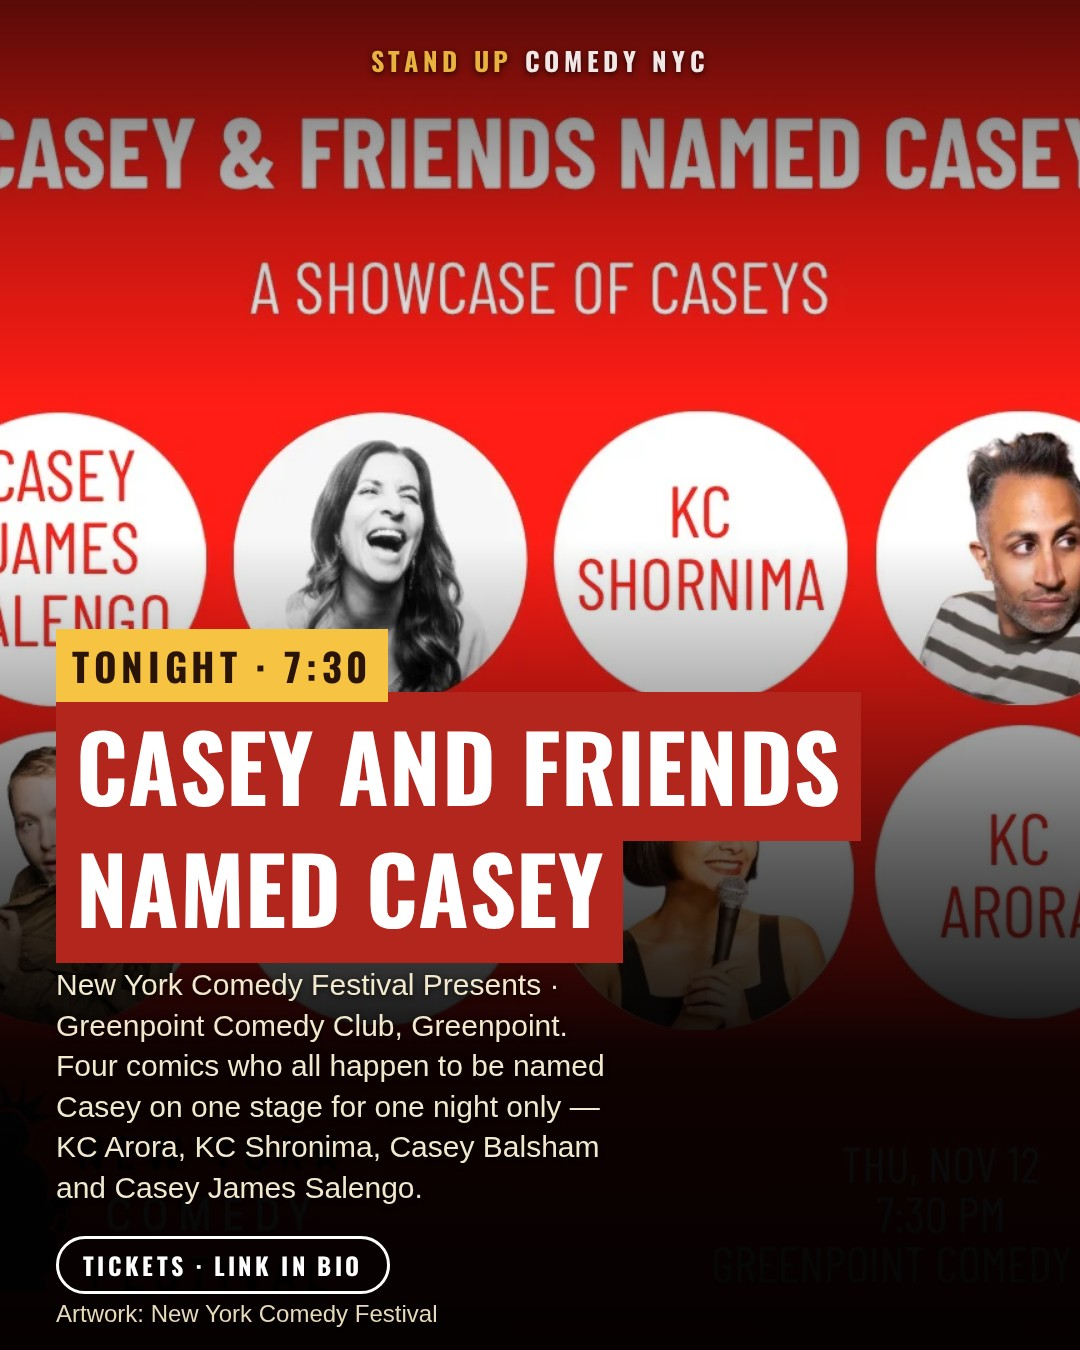
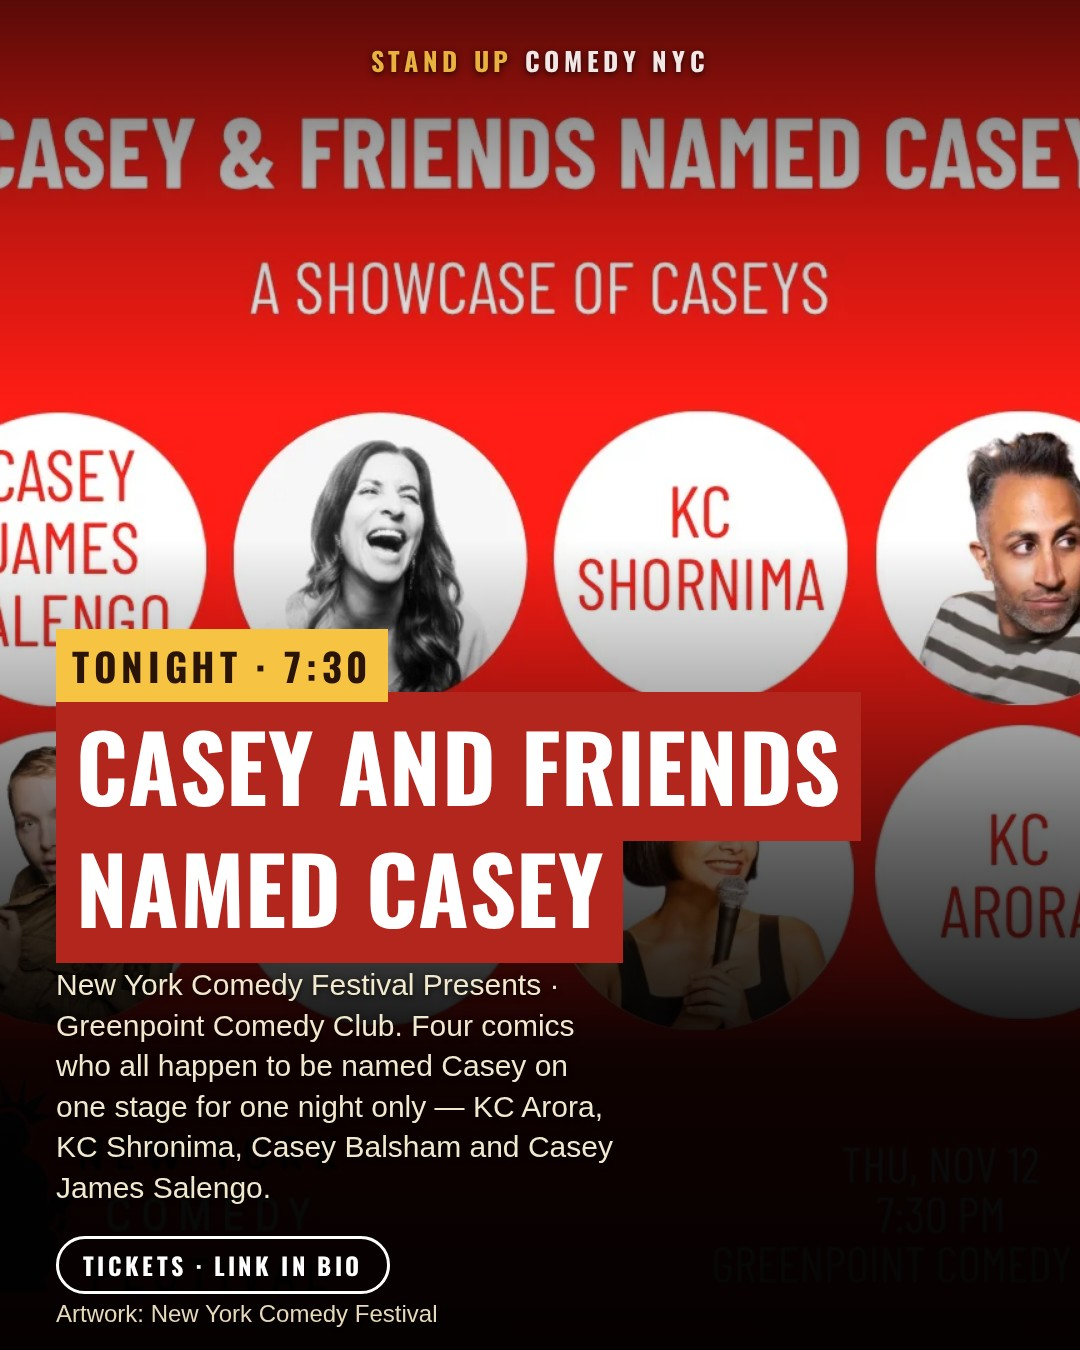
IG story for tonight

Changed region(s): [[0.0611, 0.7467, 0.5806, 0.9022]]

diff --git a/scripts/ig-card.js b/scripts/ig-card.js
@@ -57,8 +57,12 @@ const posters = JSON.parse(fs.readFileSync(path.join(root, 'POSTER-SOURCES.json'
 const reusable = new Set(posters.filter((p) => p.reuse === 'granted').map((p) => p.src));
 const venuesByName = new Map(JSON.parse(fs.readFileSync(path.join(web, 'data', 'venues.json'), 'utf8')).map((v) => [v.name, v]));
 const hoodOf = (p) => venuesByName.get(p.venue)?.neighborhood || p.neighborhood || '';
+// The venue as printed: a parenthetical that only restates the neighborhood is dropped,
+// and the neighborhood is dropped when the venue name already carries it.
+const venueOf = (p) => venueLabel(p.venue, hoodOf(p));
 const { soldOut, selectTonight } = require('./tonight-set.js');
 const { firstSentence } = require('./blurb.js');
+const { venueLabel, hoodLabel, venueLine } = require('./venue.js');
 // Full-bleed image for a pick: its own poster, or (when there's no artwork) a credited photo of the venue itself.
 const heroImage = (p) => (p.poster && p.poster.src) ? p.poster : (venuesByName.get(p.venue)?.photo || null);
 
@@ -118,7 +122,7 @@ body:before{content:'';position:absolute;inset:0;background:radial-gradient(elli
 const titleSize = (t) => { const byLen = t.length > 60 ? 88 : t.length > 40 ? 104 : t.length > 24 ? 128 : t.length > 14 ? 150 : 176; const longest = Math.max(...t.split(/\s+/).map((w) => w.length)); const byWord = Math.floor(800 / (0.56 * longest)); return Math.min(byLen, byWord); };
 const rowSize = (n, maxLen) => n <= 2 ? (maxLen > 30 ? 84 : 110) : n <= 3 ? (maxLen > 30 ? 72 : 96) : n <= 4 ? (maxLen > 30 ? 58 : 76) : (maxLen > 30 ? 48 : 60);
 const sub = (p) => firstSentence(p.description, 180, 182);
-const dek = (p) => { const b = sub(p) || p.price_label; const v = String(p.venue).replace(/^the\s+/i, ''); return new RegExp(v.replace(/[.*+?^${}()|[\]\\]/g, '\\$&'), 'i').test(b) ? `${hoodOf(p)}. ${b}` : `${p.venue}, ${hoodOf(p)}. ${b}`; };
+const dek = (p) => { const b = sub(p) || p.price_label; const v = String(p.venue).replace(/^the\s+/i, ''); const named = new RegExp(v.replace(/[.*+?^${}()|[\]\\]/g, '\\$&'), 'i').test(b); const hood = hoodLabel(venueOf(p), hoodOf(p)); const where = named ? (hood || venueOf(p)) : venueLine(p.venue, hoodOf(p), ', '); return `${where}. ${b}`; };
 
 function pickCard(p) {
   const art = p.poster && reusable.has(p.poster.src) ? `<div class="art"><img src="${dataUrl(path.join(web, p.poster.src.replace(/^\//, '')), 'image/' + p.poster.src.split('.').pop().replace('jpg', 'jpeg'))}"></div>` : '';
@@ -127,7 +131,7 @@ function pickCard(p) {
   return `${base}<div class="wrap"><div class="paper" style="--ts:${titleSize(p.title)}px">${stamp}<div class="brand">Stand Up <span>Comedy NYC</span></div>
 <div class="kicker">${tonight ? 'Tonight' : esc(shortDate(p.date))} · ${esc(p.time_label.split(' · ')[0])}</div>
 <h1 class="title">${esc(p.title)}</h1>${art}
-<p class="where">${esc(p.venue)}<br>${esc(hoodOf(p))}<small>${/see (the )?(ticket|listing|show) page|see listing/i.test(p.price_label || '') ? esc(sub(p) || '') : esc(p.price_label) + (sub(p) ? ' — ' + esc(sub(p)) : '')}</small></p><div class="big-time">${esc(p.time_label.split(' · ')[0])}</div></div>
+<p class="where">${esc(venueOf(p))}${hoodLabel(venueOf(p), hoodOf(p)) ? `<br>${esc(hoodLabel(venueOf(p), hoodOf(p)))}` : ''}<small>${/see (the )?(ticket|listing|show) page|see listing/i.test(p.price_label || '') ? esc(sub(p) || '') : esc(p.price_label) + (sub(p) ? ' — ' + esc(sub(p)) : '')}</small></p><div class="big-time">${esc(p.time_label.split(' · ')[0])}</div></div>
 <div class="foot"><span class="url">standupcomedynyc.com</span><span class="note">Link in bio</span></div></div>`;
 }
 
@@ -184,16 +188,20 @@ function storyCard(day, list) {
   const img = hero ? heroImage(hero) : null;
   const bg = img ? dataUrl(path.join(web, img.src.replace(/^\//, '')), 'image/' + img.src.split('.').pop().replace('jpg', 'jpeg')) : '';
   const weekday = new Intl.DateTimeFormat('en-US', { timeZone: 'America/New_York', weekday: 'long' }).format(new Date(day + 'T12:00:00-04:00'));
-  const rows = list.slice(0, 5).map((p) => `<div class="srow"><b>${esc(clock(p))}</b><div><strong>${esc(p.title)}</strong><span>${esc(p.venue)} · ${esc(hoodOf(p))}${p.demand === 'going_fast' ? ' · going fast' : ''}${p.sponsored ? ' · paid listing' : ''}</span></div></div>`).join('');
+  const rows = list.slice(0, 5).map((p) => `<div class="srow"><b>${esc(clock(p))}</b><div><strong>${esc(p.title)}</strong><span>${esc(venueLine(p.venue, hoodOf(p)))}${p.demand === 'going_fast' ? ' · going fast' : ''}${p.sponsored ? ' · paid listing' : ''}</span></div></div>`).join('');
+  // The frame holds five rows. On a bigger night it must say so, or the reader thinks
+  // five shows is the whole list (seen 2026-11-08 and 2026-11-12).
+  const more = list.length > 5 ? `<div class="smore">+ ${list.length - 5} more tonight</div>` : '';
   return `${base}<style>html,body{height:1920px}.photo{background-position:center 25%}.photo:after{background:linear-gradient(180deg,#000000a6 0%,#00000040 12%,#0000 24%,#0000 40%,#000000d0 55%,#000000f4 68%,#000000fa 100%)}
 .sw{position:relative;height:100%;display:flex;flex-direction:column;padding:170px 64px 210px;color:#fff}
 .sw .lock{align-self:center}
 .shead{margin-top:auto;font:700 108px/1 Oswald;text-transform:uppercase;letter-spacing:.01em}.shead i{font-style:normal;display:inline-block;background:#f6c343;color:#2a1408;padding:10px 26px 14px}.shead small{display:block;font:500 40px/1.2 Oswald;letter-spacing:.2em;color:#f6c343;margin:14px 0 26px;text-transform:uppercase}
 .srow{display:flex;gap:26px;align-items:flex-start;padding:20px 0;border-top:2px solid #ffffff33}.srow b{font:700 54px/1 Oswald;color:#f6c343;min-width:150px}.srow strong{display:block;font:700 54px/1 Oswald;text-transform:uppercase;letter-spacing:.01em}.srow span{display:block;font:30px/1.3 Arial,sans-serif;color:#e6d8b8;margin-top:8px}
+.smore{margin-top:26px;font:700 36px/1 Oswald;letter-spacing:.1em;text-transform:uppercase;color:#f6c343;text-shadow:0 2px 6px #000c}
 .spill{margin-top:34px;align-self:flex-start;border:3px solid #fff;font:700 30px/1 Oswald;letter-spacing:.12em;text-transform:uppercase;padding:18px 28px;border-radius:50px}
 .credit2{bottom:60px;left:64px}</style>
 ${hero ? `<div class="photo" style="background-image:url(${bg})"></div>` : ''}<div class="sw"><div class="lock">Stand Up <span>Comedy NYC</span></div>
-<div class="shead"><i>Tonight</i><small>${esc(new Intl.DateTimeFormat('en-US', { timeZone: 'America/New_York', weekday: 'long', month: 'long', day: 'numeric' }).format(new Date(day + 'T12:00:00-04:00')))}</small></div>${rows}
+<div class="shead"><i>Tonight</i><small>${esc(new Intl.DateTimeFormat('en-US', { timeZone: 'America/New_York', weekday: 'long', month: 'long', day: 'numeric' }).format(new Date(day + 'T12:00:00-04:00')))}</small></div>${rows}${more}
 <div class="spill">Full board + tickets · standupcomedynyc.com/links</div>${img ? `<div class="credit2">${esc(img.credit || '')}</div>` : ''}</div>`;
 }
 function coverCard(label, day, list) {

diff --git a/scripts/venue.js b/scripts/venue.js
@@ -1,0 +1,41 @@
+'use strict';
+// How a venue is printed to a reader.
+//
+// The registry disambiguates sister rooms with a parenthetical: "New York Comedy Club
+// (Upper West Side)", "Talea Beer Co. (Cobble Hill)". Printed next to the neighborhood --
+// which the registry also carries -- that says the same thing twice. On the 9:16 story
+// frame of 2026-11-12 the repeated line was long enough to wrap and collide with the
+// next row, and the same redundancy reached the Instagram caption, which cannot be
+// edited once published.
+//
+// The registry key is never changed. This only affects what a reader sees.
+
+// The venue as printed: drop a trailing parenthetical when it is only restating the
+// neighborhood ("New York Comedy Club (Upper West Side)" -> "New York Comedy Club").
+// A parenthetical that says something else ("Union Hall (Greenpoint)") is kept.
+const venueLabel = (venue, neighborhood) => {
+  const hood = String(neighborhood || '').trim().toLowerCase();
+  return String(venue || '')
+    .replace(/\s*\(([^()]*)\)\s*$/, (all, inner) => (hood && inner.trim().toLowerCase() === hood ? '' : all))
+    .trim();
+};
+
+// The neighborhood as printed: dropped when the venue name already carries it
+// ("Greenpoint Comedy Club" needs no "Greenpoint" after it).
+// Tested against the printed venue label, so a stripped parenthetical does not
+// take the neighborhood down with it.
+const hoodLabel = (venue, neighborhood) => {
+  const hood = String(neighborhood || '').trim();
+  if (!hood) return '';
+  return String(venue || '').toLowerCase().includes(hood.toLowerCase()) ? '' : hood;
+};
+
+// "New York Comedy Club · Upper West Side" -- the venue and its hood, with the
+// separator only when there is something to separate.
+const venueLine = (venue, neighborhood, sep = ' · ') => {
+  const v = venueLabel(venue, neighborhood);
+  const h = hoodLabel(v, neighborhood);
+  return h ? `${v}${sep}${h}` : v;
+};
+
+module.exports = { venueLabel, hoodLabel, venueLine };

diff --git a/scripts/caption.js b/scripts/caption.js
@@ -13,6 +13,7 @@
 // proof-read is the caption that gets published.
 'use strict';
 const { firstSentence } = require('./blurb.js');
+const { venueLabel, hoodLabel } = require('./venue.js');
 
 const LIMIT = 2200;           // Instagram's hard caption limit
 const BLURB_MAX = 240;        // the cap the caption used before
@@ -34,10 +35,15 @@ const credits = (list) => { const c = [...new Set(list.filter((p) => p.poster &&
 const hashtags = '#nyccomedy #nycstandup #brooklyncomedy #standupnyc';
 
 // One block per show: time + title, where it is, then the blurb.
+// The venue line drops a parenthetical that only restates the neighborhood, and drops
+// the neighborhood when the venue name already carries it ("Greenpoint Comedy Club").
 const block = (e, blurb) => {
   const tag = e.demand === 'sold_out' ? ' · sold out' : e.demand === 'going_fast' ? ' · going fast' : '';
   const paid = e.sponsored ? ' · paid listing' : '';
-  return `${e.clock} — ${e.title.toUpperCase()}\n${e.venue}, ${e.neighborhood}${tag}${paid}${blurb ? '\n' + blurb : ''}`;
+  const venue = venueLabel(e.venue, e.neighborhood);
+  const hood = hoodLabel(venue, e.neighborhood);
+  const where = hood ? `${venue}, ${hood}` : venue;
+  return `${e.clock} — ${e.title.toUpperCase()}\n${where}${tag}${paid}${blurb ? '\n' + blurb : ''}`;
 };
 
 const assemble = (head, entries, blurbs, foot) =>

diff --git a/scripts/check.js b/scripts/check.js
@@ -252,6 +252,7 @@ const jsFiles = [
   path.join(root, 'scripts', 'research-plan.js'),
   path.join(root, 'scripts', 'calendar.js'),
   path.join(root, 'scripts', 'blurb.js'),
+  path.join(root, 'scripts', 'venue.js'),
   path.join(root, 'scripts', 'caption.js'),
   path.join(root, 'scripts', 'tonight-set.js'),
   path.join(root, 'scripts', 'ig-card.js'),

diff --git a/candidates/content-calendar.md b/candidates/content-calendar.md
@@ -13,7 +13,7 @@ Six weeks ahead from the board. Regenerated on every build; edit the data, not t
 
 Ranked 46; run 0, reuse 8, skip 38; ~414,000 tokens saved.
 
-## Week 1: Nov 12 to Nov 18 — 41 picks — 22 without artwork · 45 Eventbrite leads not yet reviewed
+## Week 1: Nov 12 to Nov 18 — 42 picks — 22 without artwork · 45 Eventbrite leads not yet reviewed
 
 - Thu Nov 12 6pm — **Shelly Belly Presented by the New York Comedy Festival** at New York Comedy Club (Upper West Side)
 - Thu Nov 12 7:30pm · doors 7:15pm — **New York Comedy Festival Presents: Casey and Friends Named Casey** at Greenpoint Comedy Club
@@ -33,6 +33,7 @@ Ranked 46; run 0, reuse 8, skip 38; ~414,000 tokens saved.
 - Fri Nov 13 10pm · doors 9:30pm — **Neel Ghosh: Pagol** at Union Hall · NO ARTWORK
 - Fri Nov 13 11pm — **After Hours at Flop House** at Flop House Comedy · NO ARTWORK
 - Sat Nov 14 3pm — **The Moth x Comic Relief: Funny Story** at The Town Hall · NO ARTWORK
+- Sat Nov 14 6pm — **Naomi Karavani Headlines** at Bushwick Comedy Club
 - Sat Nov 14 7pm — **Daniel Sloss: Bitter** at Beacon Theatre · NO ARTWORK · heat 60
 - Sat Nov 14 7pm — **SH&T Show hosted by Jordan Klepper** at The Town Hall · NO ARTWORK
 - Sat Nov 14 7:30pm · doors 7pm — **Sureni Does an Hour of Comedy** at Union Hall
